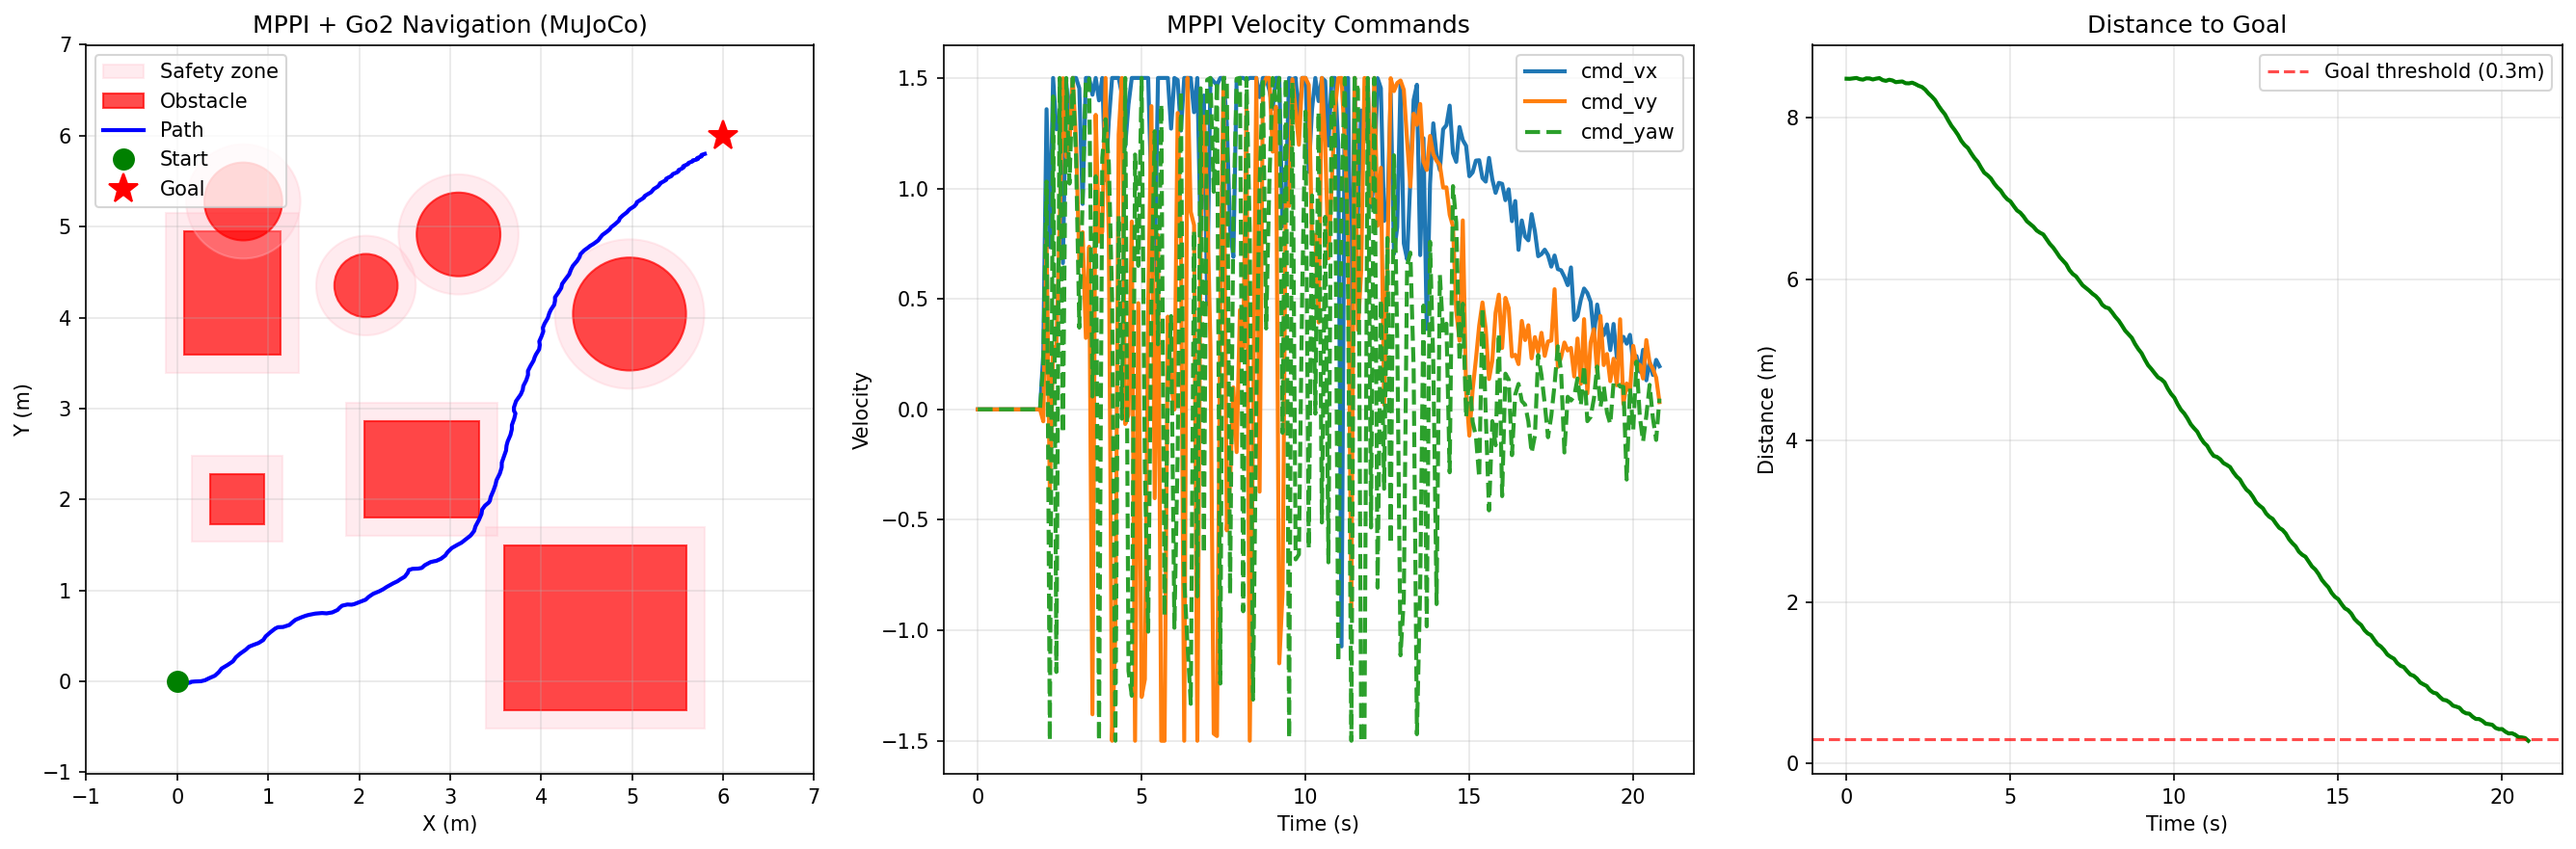
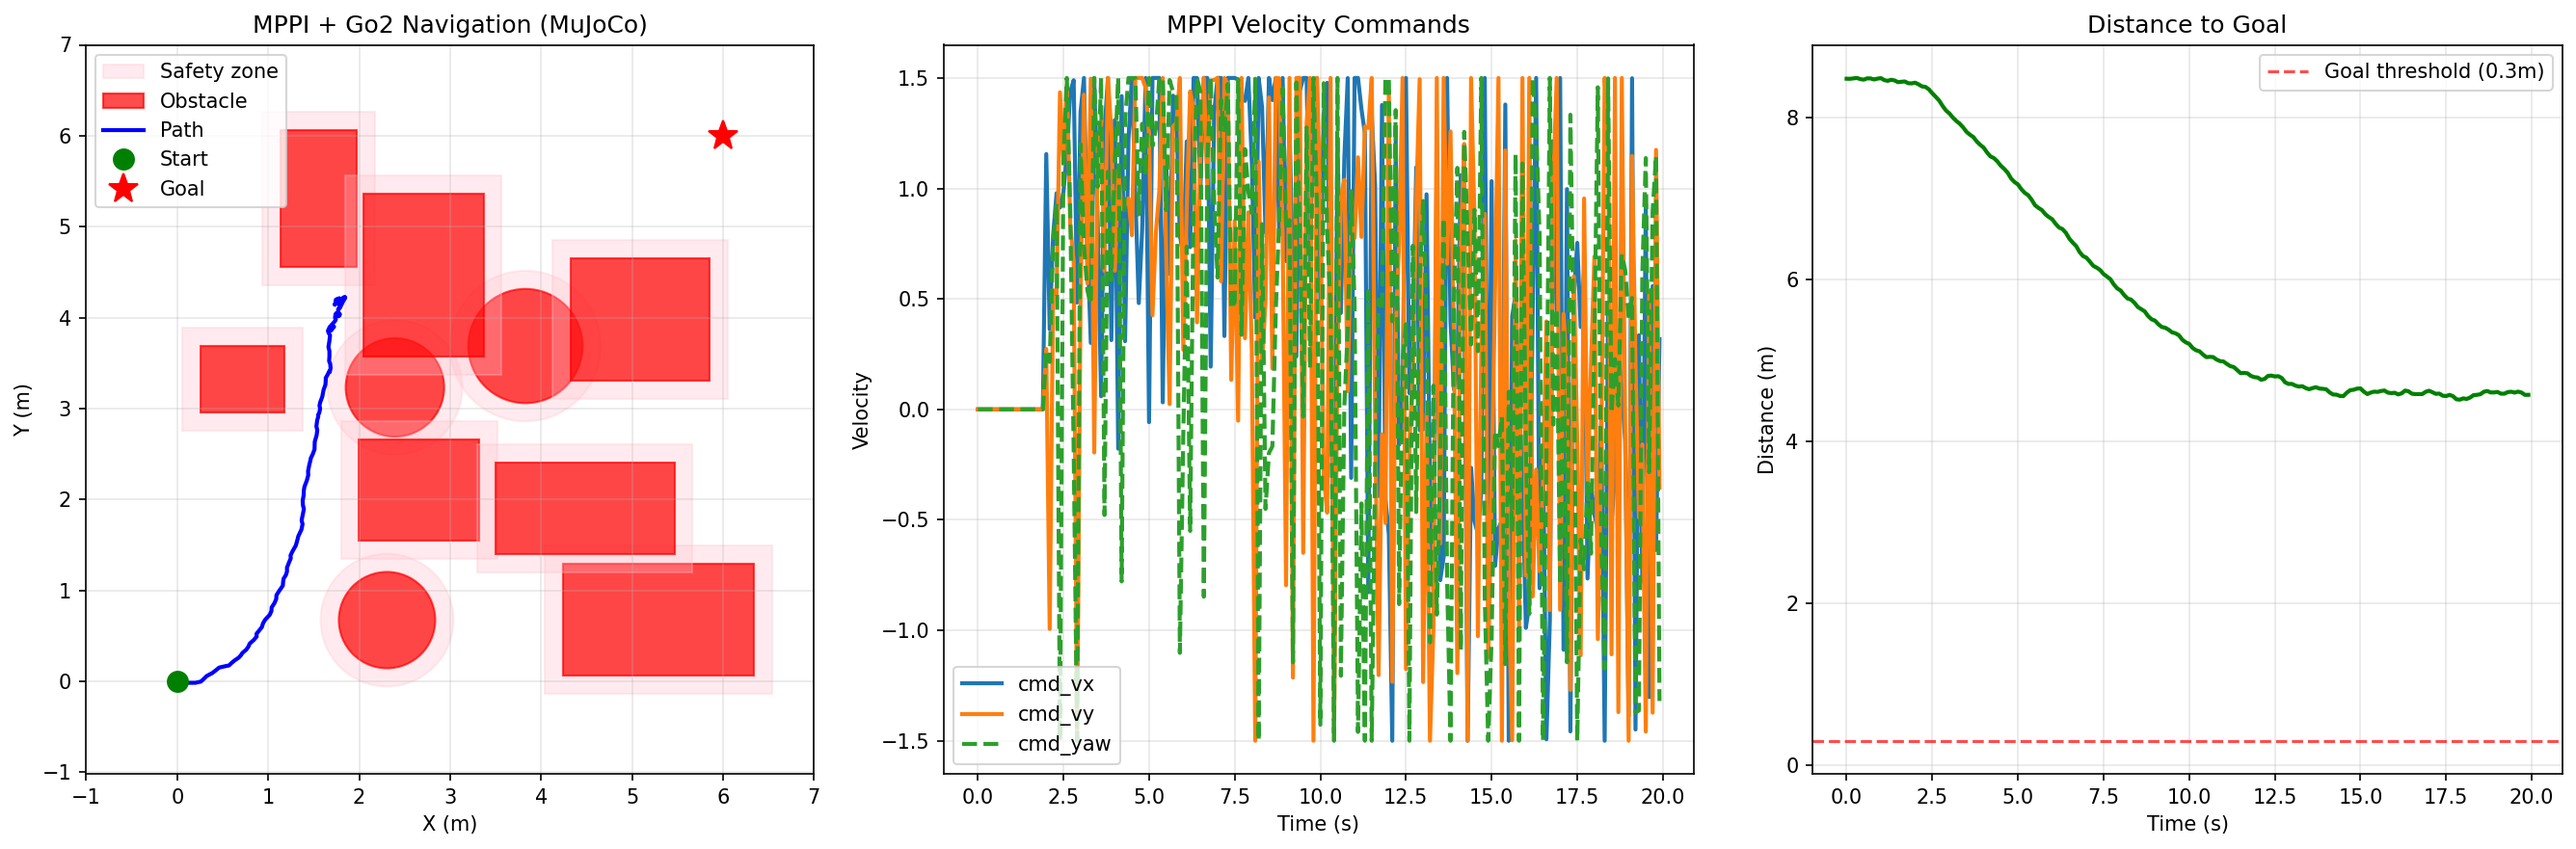
fixing local minima trapping

diff --git a/global_planner.py b/global_planner.py
@@ -1,0 +1,202 @@
+"""
+global_planner.py — Grid-based A* planner for MPPI waypoint guidance.
+
+Builds a 2-D occupancy grid from obstacle SDFs and finds a collision-free
+path from start to goal.  MPPI then tracks a "carrot" point on this path
+(pure-pursuit style) rather than the raw goal, breaking local minima in
+front of walls.
+"""
+
+import numpy as np
+import heapq
+from typing import List, Tuple, Optional
+
+from mppi_hard_constraint import Obstacle
+
+
+class AStarPlanner:
+    """
+    2-D grid A* planner backed by obstacle signed-distance fields.
+
+    Usage
+    -----
+        planner = AStarPlanner(obstacles, bounds=(-1, 8, -1, 8))
+        path    = planner.plan(start, goal)               # list[np.ndarray]
+        carrot  = planner.get_carrot(path, robot_pos, lookahead=1.5)
+    """
+
+    def __init__(
+        self,
+        obstacles: List[Obstacle],
+        bounds: Tuple[float, float, float, float],  # xmin, xmax, ymin, ymax
+        resolution: float = 0.15,
+        safety_margin: float = 0.5,
+    ):
+        self.obstacles     = obstacles
+        self.resolution    = resolution
+        self.safety_margin = safety_margin
+
+        self.xmin, self.xmax, self.ymin, self.ymax = bounds
+        self.nx = int(np.ceil((self.xmax - self.xmin) / resolution)) + 1
+        self.ny = int(np.ceil((self.ymax - self.ymin) / resolution)) + 1
+
+        print(f"A* grid: {self.nx}×{self.ny} cells at {resolution:.2f} m resolution")
+        self.grid = self._build_grid()
+        free = int(np.sum(~self.grid))
+        print(f"  Free cells: {free}/{self.nx * self.ny}")
+
+    # ── grid helpers ──────────────────────────────────────────────────────────
+
+    def _build_grid(self) -> np.ndarray:
+        """True = occupied (inside inflated obstacle), False = free."""
+        grid = np.zeros((self.nx, self.ny), dtype=bool)
+        for ix in range(self.nx):
+            for iy in range(self.ny):
+                pos = self._idx_to_pos(ix, iy)
+                for obs in self.obstacles:
+                    if obs.distance_from_surface(pos) < self.safety_margin:
+                        grid[ix, iy] = True
+                        break
+        return grid
+
+    def _pos_to_idx(self, pos: np.ndarray) -> Tuple[int, int]:
+        ix = int(round((pos[0] - self.xmin) / self.resolution))
+        iy = int(round((pos[1] - self.ymin) / self.resolution))
+        return (
+            int(np.clip(ix, 0, self.nx - 1)),
+            int(np.clip(iy, 0, self.ny - 1)),
+        )
+
+    def _idx_to_pos(self, ix: int, iy: int) -> np.ndarray:
+        return np.array([
+            self.xmin + ix * self.resolution,
+            self.ymin + iy * self.resolution,
+        ])
+
+    def _nearest_free(
+        self, idx: Tuple[int, int], search_radius: int = 8
+    ) -> Optional[Tuple[int, int]]:
+        """Spiral outward from idx to find the nearest free cell."""
+        for r in range(1, search_radius + 1):
+            for dx in range(-r, r + 1):
+                for dy in range(-r, r + 1):
+                    nb = (idx[0] + dx, idx[1] + dy)
+                    if (0 <= nb[0] < self.nx and 0 <= nb[1] < self.ny
+                            and not self.grid[nb]):
+                        return nb
+        return None
+
+    # ── A* ────────────────────────────────────────────────────────────────────
+
+    def plan(
+        self, start: np.ndarray, goal: np.ndarray
+    ) -> Optional[List[np.ndarray]]:
+        """
+        Run A* from start to goal.
+
+        Returns a list of (x, y) waypoints (including start and goal),
+        or None if no path exists.
+        """
+        s = self._pos_to_idx(start)
+        g = self._pos_to_idx(goal)
+
+        if self.grid[g]:
+            print("A* warning: goal cell is occupied — searching for nearest free cell")
+            g = self._nearest_free(g)
+            if g is None:
+                print("A*: no free cell near goal — aborting")
+                return None
+
+        if self.grid[s]:
+            print("A* warning: start cell is occupied — searching for nearest free cell")
+            s = self._nearest_free(s)
+            if s is None:
+                print("A*: no free cell near start — aborting")
+                return None
+
+        # 8-connected neighbours with precomputed step costs
+        straight = self.resolution
+        diag     = np.sqrt(2) * self.resolution
+        neighbours = [
+            ( 1,  0, straight), (-1,  0, straight),
+            ( 0,  1, straight), ( 0, -1, straight),
+            ( 1,  1, diag),     ( 1, -1, diag),
+            (-1,  1, diag),     (-1, -1, diag),
+        ]
+
+        # (f, g_cost, node)
+        open_heap: list = []
+        heapq.heappush(open_heap, (0.0, 0.0, s))
+        came_from: dict = {}
+        g_score: dict   = {s: 0.0}
+
+        while open_heap:
+            _, g_cur, cur = heapq.heappop(open_heap)
+
+            if cur == g:
+                path = self._reconstruct(came_from, cur)
+                print(f"A*: path found with {len(path)} waypoints")
+                return path
+
+            # Skip stale heap entries
+            if g_cur > g_score.get(cur, float("inf")):
+                continue
+
+            for dx, dy, step_cost in neighbours:
+                nb = (cur[0] + dx, cur[1] + dy)
+                if not (0 <= nb[0] < self.nx and 0 <= nb[1] < self.ny):
+                    continue
+                if self.grid[nb]:
+                    continue
+                tentative = g_cur + step_cost
+                if tentative < g_score.get(nb, float("inf")):
+                    came_from[nb] = cur
+                    g_score[nb]   = tentative
+                    h = np.hypot(nb[0] - g[0], nb[1] - g[1]) * self.resolution
+                    heapq.heappush(open_heap, (tentative + h, tentative, nb))
+
+        print("A*: no path found")
+        return None
+
+    def _reconstruct(self, came_from: dict, current) -> List[np.ndarray]:
+        path = []
+        while current in came_from:
+            path.append(self._idx_to_pos(*current))
+            current = came_from[current]
+        path.append(self._idx_to_pos(*current))
+        path.reverse()
+        return path
+
+    # ── carrot-point (pure pursuit) ───────────────────────────────────────────
+
+    def get_carrot(
+        self,
+        path: List[np.ndarray],
+        robot_pos: np.ndarray,
+        lookahead: float = 1.5,
+    ) -> np.ndarray:
+        """
+        Return the point on `path` that is `lookahead` metres ahead of
+        the robot's nearest point on the path.  Falls back to the final
+        waypoint when the lookahead overshoots the end.
+        """
+        if not path:
+            return robot_pos
+
+        # Nearest waypoint
+        dists   = [np.linalg.norm(p - robot_pos) for p in path]
+        closest = int(np.argmin(dists))
+
+        # Walk forward until lookahead distance is consumed
+        accumulated = 0.0
+        for i in range(closest, len(path) - 1):
+            seg_len = float(np.linalg.norm(path[i + 1] - path[i]))
+            if seg_len == 0.0:
+                continue
+            if accumulated + seg_len >= lookahead:
+                remaining = lookahead - accumulated
+                direction = (path[i + 1] - path[i]) / seg_len
+                return path[i] + remaining * direction
+            accumulated += seg_len
+
+        return path[-1]

diff --git a/go2_sim.py b/go2_sim.py
@@ -43,6 +43,7 @@ sys.path.insert(0, _HERE)
 
 from mppi_hard_constraint import Obstacle, MPPISimulation
 from mppi_go2 import MPPIGo2Controller
+from global_planner import AStarPlanner
 
 # ── paths ────────────────────────────────────────────────────────────────────
 _HOME = os.path.expanduser("~")
@@ -460,6 +461,25 @@ class Go2Simulator:
         rollout_history = []   # list of dicts — one entry per MPPI replan
         t_start = time.time()
 
+        # ── global A* path ────────────────────────────────────────────────────
+        start_pos = np.array([self.data.qpos[0], self.data.qpos[1]])
+        all_x = [start_pos[0], goal[0]] + [o.x for o in obstacles]
+        all_y = [start_pos[1], goal[1]] + [o.y for o in obstacles]
+        bounds = (
+            min(all_x) - 1.5, max(all_x) + 1.5,
+            min(all_y) - 1.5, max(all_y) + 1.5,
+        )
+        astar = AStarPlanner(
+            obstacles, bounds,
+            resolution=0.15,
+            safety_margin=mppi.safety_margin,
+        )
+        global_path = astar.plan(start_pos, goal)
+        if global_path is None:
+            print("WARNING: A* found no path — falling back to direct goal tracking")
+            global_path = [start_pos, goal]
+        CARROT_LOOKAHEAD = 1.5   # metres ahead of robot on global path
+
         print(f"Starting simulation (warmup={warmup_time}s, max={max_time}s) …")
         print(f"Goal: {goal}   Obstacles: {len(obstacles)}")
 
@@ -474,8 +494,12 @@ class Go2Simulator:
                 vel_x = float(self.data.qvel[0])
                 vel_y = float(self.data.qvel[1])
 
+                # Pure-pursuit carrot on the global path
+                robot_pos = np.array([pos_x, pos_y])
+                carrot = astar.get_carrot(global_path, robot_pos, CARROT_LOOKAHEAD)
+
                 state = np.array([pos_x, pos_y, yaw, vel_x, vel_y])
-                u_opt, _, _ = mppi.update_control(state, goal, obstacles)
+                u_opt, _, _ = mppi.update_control(state, carrot, obstacles)
                 cmd_vx, cmd_vy, cmd_yaw = u_opt  # u_opt is already U[0], shape (3,)
 
                 # Capture rollout snapshot for the 2-D animation
@@ -535,20 +559,20 @@ class Go2Simulator:
         print(f"Simulation finished in {total_wall:.1f}s real time.")
         print(f"Goal reached: {goal_reached}   Trajectory points: {len(traj_xy)}")
 
-        self._save_results(traj_xy, cmd_log, obstacles, goal, frames, rollout_history, output_dir)
+        self._save_results(traj_xy, cmd_log, obstacles, goal, frames, rollout_history, output_dir, global_path)
         return traj_xy, goal_reached
 
     # ── output generation ─────────────────────────────────────────────
 
-    def _save_results(self, traj_xy, cmd_log, obstacles, goal, frames, rollout_history, output_dir):
+    def _save_results(self, traj_xy, cmd_log, obstacles, goal, frames, rollout_history, output_dir, global_path=None):
         """Save trajectory plot, rollout GIF, and (if available) MuJoCo video."""
-        self._save_trajectory_plot(traj_xy, cmd_log, obstacles, goal, output_dir)
+        self._save_trajectory_plot(traj_xy, cmd_log, obstacles, goal, output_dir, global_path)
         if rollout_history:
-            self._save_rollout_gif(traj_xy, rollout_history, obstacles, goal, output_dir)
+            self._save_rollout_gif(traj_xy, rollout_history, obstacles, goal, output_dir, global_path=global_path)
         if frames:
             self._save_video(frames, output_dir)
 
-    def _save_trajectory_plot(self, traj_xy, cmd_log, obstacles, goal, output_dir):
+    def _save_trajectory_plot(self, traj_xy, cmd_log, obstacles, goal, output_dir, global_path=None):
         fig, axes = plt.subplots(1, 3, figsize=(18, 6))
         ax_traj, ax_cmd, ax_dist = axes
 
@@ -567,7 +591,10 @@ class Go2Simulator:
                 label_safety="Safety zone" if i == 0 else "",
             )
 
-        ax_traj.plot(traj_xy[:, 0], traj_xy[:, 1], "b-", linewidth=2, label="Path")
+        if global_path is not None:
+            gp = np.array(global_path)
+            ax_traj.plot(gp[:, 0], gp[:, 1], "c--", linewidth=1.5, alpha=0.7, label="A* path")
+        ax_traj.plot(traj_xy[:, 0], traj_xy[:, 1], "b-", linewidth=2, label="Executed path")
         ax_traj.plot(traj_xy[0, 0],  traj_xy[0, 1],  "go", markersize=10, label="Start")
         ax_traj.plot(goal[0],         goal[1],         "r*", markersize=15, label="Goal")
         ax_traj.legend(loc="upper left")
@@ -608,7 +635,7 @@ class Go2Simulator:
         plt.close(fig)
 
     def _save_rollout_gif(self, traj_xy, rollout_history, obstacles, goal,
-                          output_dir, max_rollouts: int = 50):
+                          output_dir, max_rollouts: int = 50, global_path=None):
         """
         Create a 2-D top-down GIF showing how MPPI sampled trajectories evolve
         over time — analogous to create_rollout_animation in mppi_hard_constraint.py.
@@ -640,6 +667,9 @@ class Go2Simulator:
                 label_safety="Safety zone" if i == 0 else "",
             )
         ax.plot(goal[0], goal[1], "r*", markersize=14, label="Goal", zorder=6)
+        if global_path is not None:
+            gp = np.array(global_path)
+            ax.plot(gp[:, 0], gp[:, 1], "c--", linewidth=1.5, alpha=0.7, label="A* path", zorder=4)
 
         # Dynamic line handles — pre-allocate rollout lines
         rollout_lines = [ax.plot([], [], alpha=0.4, linewidth=1)[0]
@@ -756,10 +786,10 @@ def parse_args():
                    help="Capture offscreen frames and save as gif/mp4")
     p.add_argument("--samples",     type=int,   default=500,
                    help="MPPI sample count (default: 500)")
-    p.add_argument("--horizon",     type=int,   default=20,
-                   help="MPPI horizon (default: 20)")
-    p.add_argument("--sigma",       type=float, default=0.5,
-                   help="MPPI noise sigma (default: 0.5)")
+    p.add_argument("--horizon",     type=int,   default=30,
+                   help="MPPI horizon (default: 30)")
+    p.add_argument("--sigma",       type=float, default=0.9,
+                   help="MPPI noise sigma (default: 0.9)")
     # ── obstacle configuration ────────────────────────────────────────────────
     p.add_argument("-n", "--num-obstacles", type=int, default=None, metavar="N",
                    help="Number of obstacles (default: random 3-8 each run)")
@@ -808,7 +838,7 @@ def main():
         horizon        = args.horizon,
         num_samples    = args.samples,
         dt             = STEPS_PER_MPPI * SIM_DT,  # 0.1 s
-        lambda_        = 1.0,
+        lambda_        = 7.0,
         sigma          = args.sigma,
         control_bounds = (-1.5, 1.5),
         safety_margin  = args.safety_margin,
